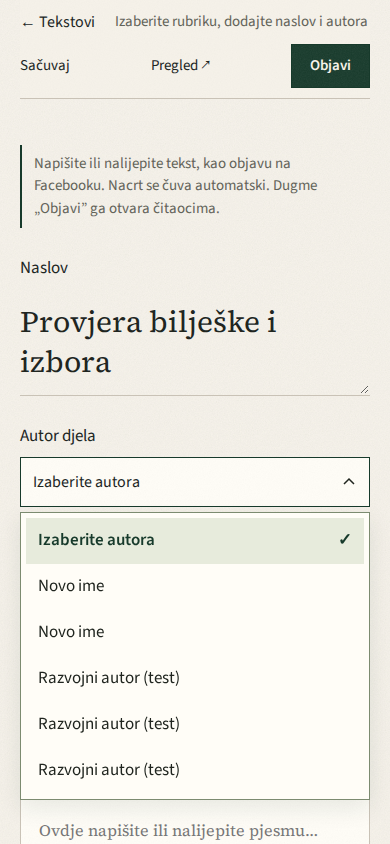
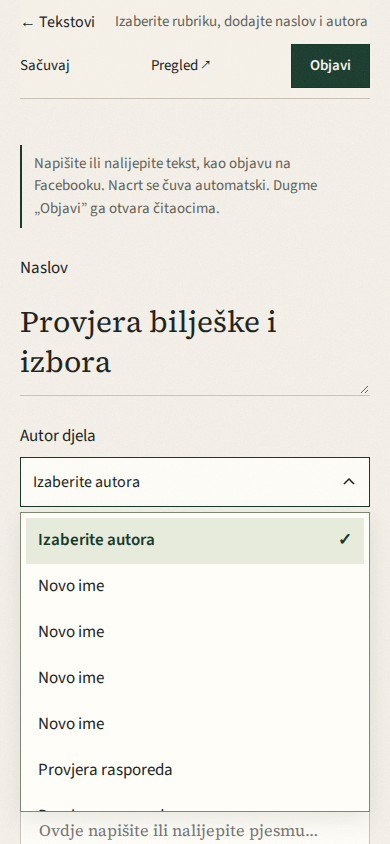
docs: record editorial and reader workflow verification

diff --git a/docs/verification/editorial-reader-2026-09-08/review.md b/docs/verification/editorial-reader-2026-09-08/review.md
@@ -1,0 +1,98 @@
+# Editorial and reader workflow verification — 8 September 2026
+
+Implementation branch: `codex/editorial-reader-experience`. Optional visual
+accents are isolated in commit `0ac1e93` (`design: add paper gradients and ink
+focus accents`). Reverting that commit removes only its stylesheet and import.
+
+## Built application
+
+The image was built from `git archive` of the committed application, separately
+from the working tree. No ignored source files were found under `src` and the
+archive did not include private environment files. Startup applied the new
+submission migration to the isolated `zilet-feedback` PostgreSQL database.
+
+The final application checks passed:
+
+- Prettier; all ten unit/contract test files; TypeScript; shell deployment checks.
+- Production compilation in the clean-checkout Docker build.
+- HTTP acceptance against the built app on localhost:3300, isolated PostgreSQL
+  and Mailpit. `api-acceptance.json` records the detailed checks.
+- Reader-submission HTTP workflow: profile/origin/role guards, one-photo limit,
+  private media, manual fallback, duplicate-review conflict, required signed note,
+  publish/withdraw/delete, private rejection reply, owner/version deletion guards.
+- Existing mobile editor workflow: pointer/touch chooser survives autosave,
+  keyboard selection and Escape, exact canonical verse and image placement on
+  save/reopen, signed notes, draft/public separation, and withdrawal HTTP 404.
+- Next-step focus: clicking Tekstovi (including when already on that page) focuses
+  the search input; its tabIndex remains 0. Choosing Rubrika focuses an empty title.
+- The owner portrait command attached a fixture image and its author reference
+  together in the built container; removal of the portrait reference also passed.
+
+The permanent-image-deletion test now checks all three files inside the actual
+app container before and after DELETE. A missing file in the host working tree
+is no longer treated as evidence about container storage.
+
+## Browser review
+
+Used the in-app browser and measured actual viewport width, page heading and
+horizontal document overflow. Proza, canonical poetry, the reader submission
+form and the photo library passed at 320, 390, 768 and 1440 px. Separate temporary
+fixtures exercised a short Cyrillic/Latin poem without art, a long title and
+long authored verse line, and two synthetic images with 1:3 and 4:1 proportions
+at all four widths. All 28 combinations had no horizontal document overflow.
+
+Inspected the 390px new-text form and editor entry, 320px reader form/editor
+list, 768px criticism and 1440px photo library. The full artwork dialog opened on
+390px, kept its controls and attribution visible, and Escape restored focus to
+the image opener. Public copy now uses “Svi radovi autora”. The old Priče URL
+redirects to Proza; existing stored rubrics remain readable.
+
+The populated statistics dashboard was rendered with synthetic local metrics,
+separately from the live Umami API test. Those example counts are layout data,
+not readership figures. Device labels are local-language names. Both connected
+and unavailable states were examined. The populated dashboard also passed all
+four viewport widths without horizontal overflow (32 combinations in total).
+Reduced-motion and print rules remain
+in place; OS-level zoom was not tested.
+
+## External services
+
+A disposable instance of the pinned Umami 3.3.1 image verified login, initial
+password rotation, website creation, collection, and v3 expanded path/source/
+country/device metrics. The service returns some numeric values as strings;
+the decoder handles that shape. Per-page duration follows Umami's intervals and
+is unavailable for a single view with no later timing boundary. The dashboard
+does not claim completed reading or exact active attention.
+
+A synthetic literary passage passed screening using the configured INTEL_KEY
+and `gemini-3.1-flash-lite`. The older default model returned HTTP 404; the
+working lightweight model is now the default. Unit tests cover missing keys,
+quota/network failures, malformed responses, uncertainty, and recognized
+blocking reasons. No actual reader submission was sent during implementation.
+
+Brevo credentials were not sent any test mail by the isolated acceptance suite;
+that suite uses Mailpit. Production mail and analytics activation remain runtime
+configuration steps described in `docs/reader-workflow-setup.md` and
+`docs/analytics.md`.
+
+## Local test incident
+
+A delegated acceptance run mistakenly targeted the existing localhost:3000
+preview. It added five labelled test accounts, a test author and moderation
+records, and overwrote a shared temporary credential artifact. The exact added
+records were audited and removed; its temporary post/media had already been
+removed by the deletion checks. No production operation occurred. Existing
+published content, source text, media and biographies were preserved.
+
+That run also cleared local rate-limit counters and left the local explicit
+poetry homepage placement unset. Its previous value was not recoverable, so no
+replacement was invented; the normal poetry fallback remains active. The shared
+credential artifact problem was fixed by namespacing artifacts by port. All
+integration entry points now require explicit `ZILET_DISPOSABLE_TEST=true`; the
+filesystem checks additionally require `ZILET_TEST_CONTAINER`.
+
+The ordinary local preview was updated to the verified image using its existing
+environment and durable volumes. The separate feedback/analytics test services
+and their temporary data were removed after verification. No push or production
+deployment was performed. Pre-existing README.md and AGENTS.md edits were left
+uncommitted and unchanged.
